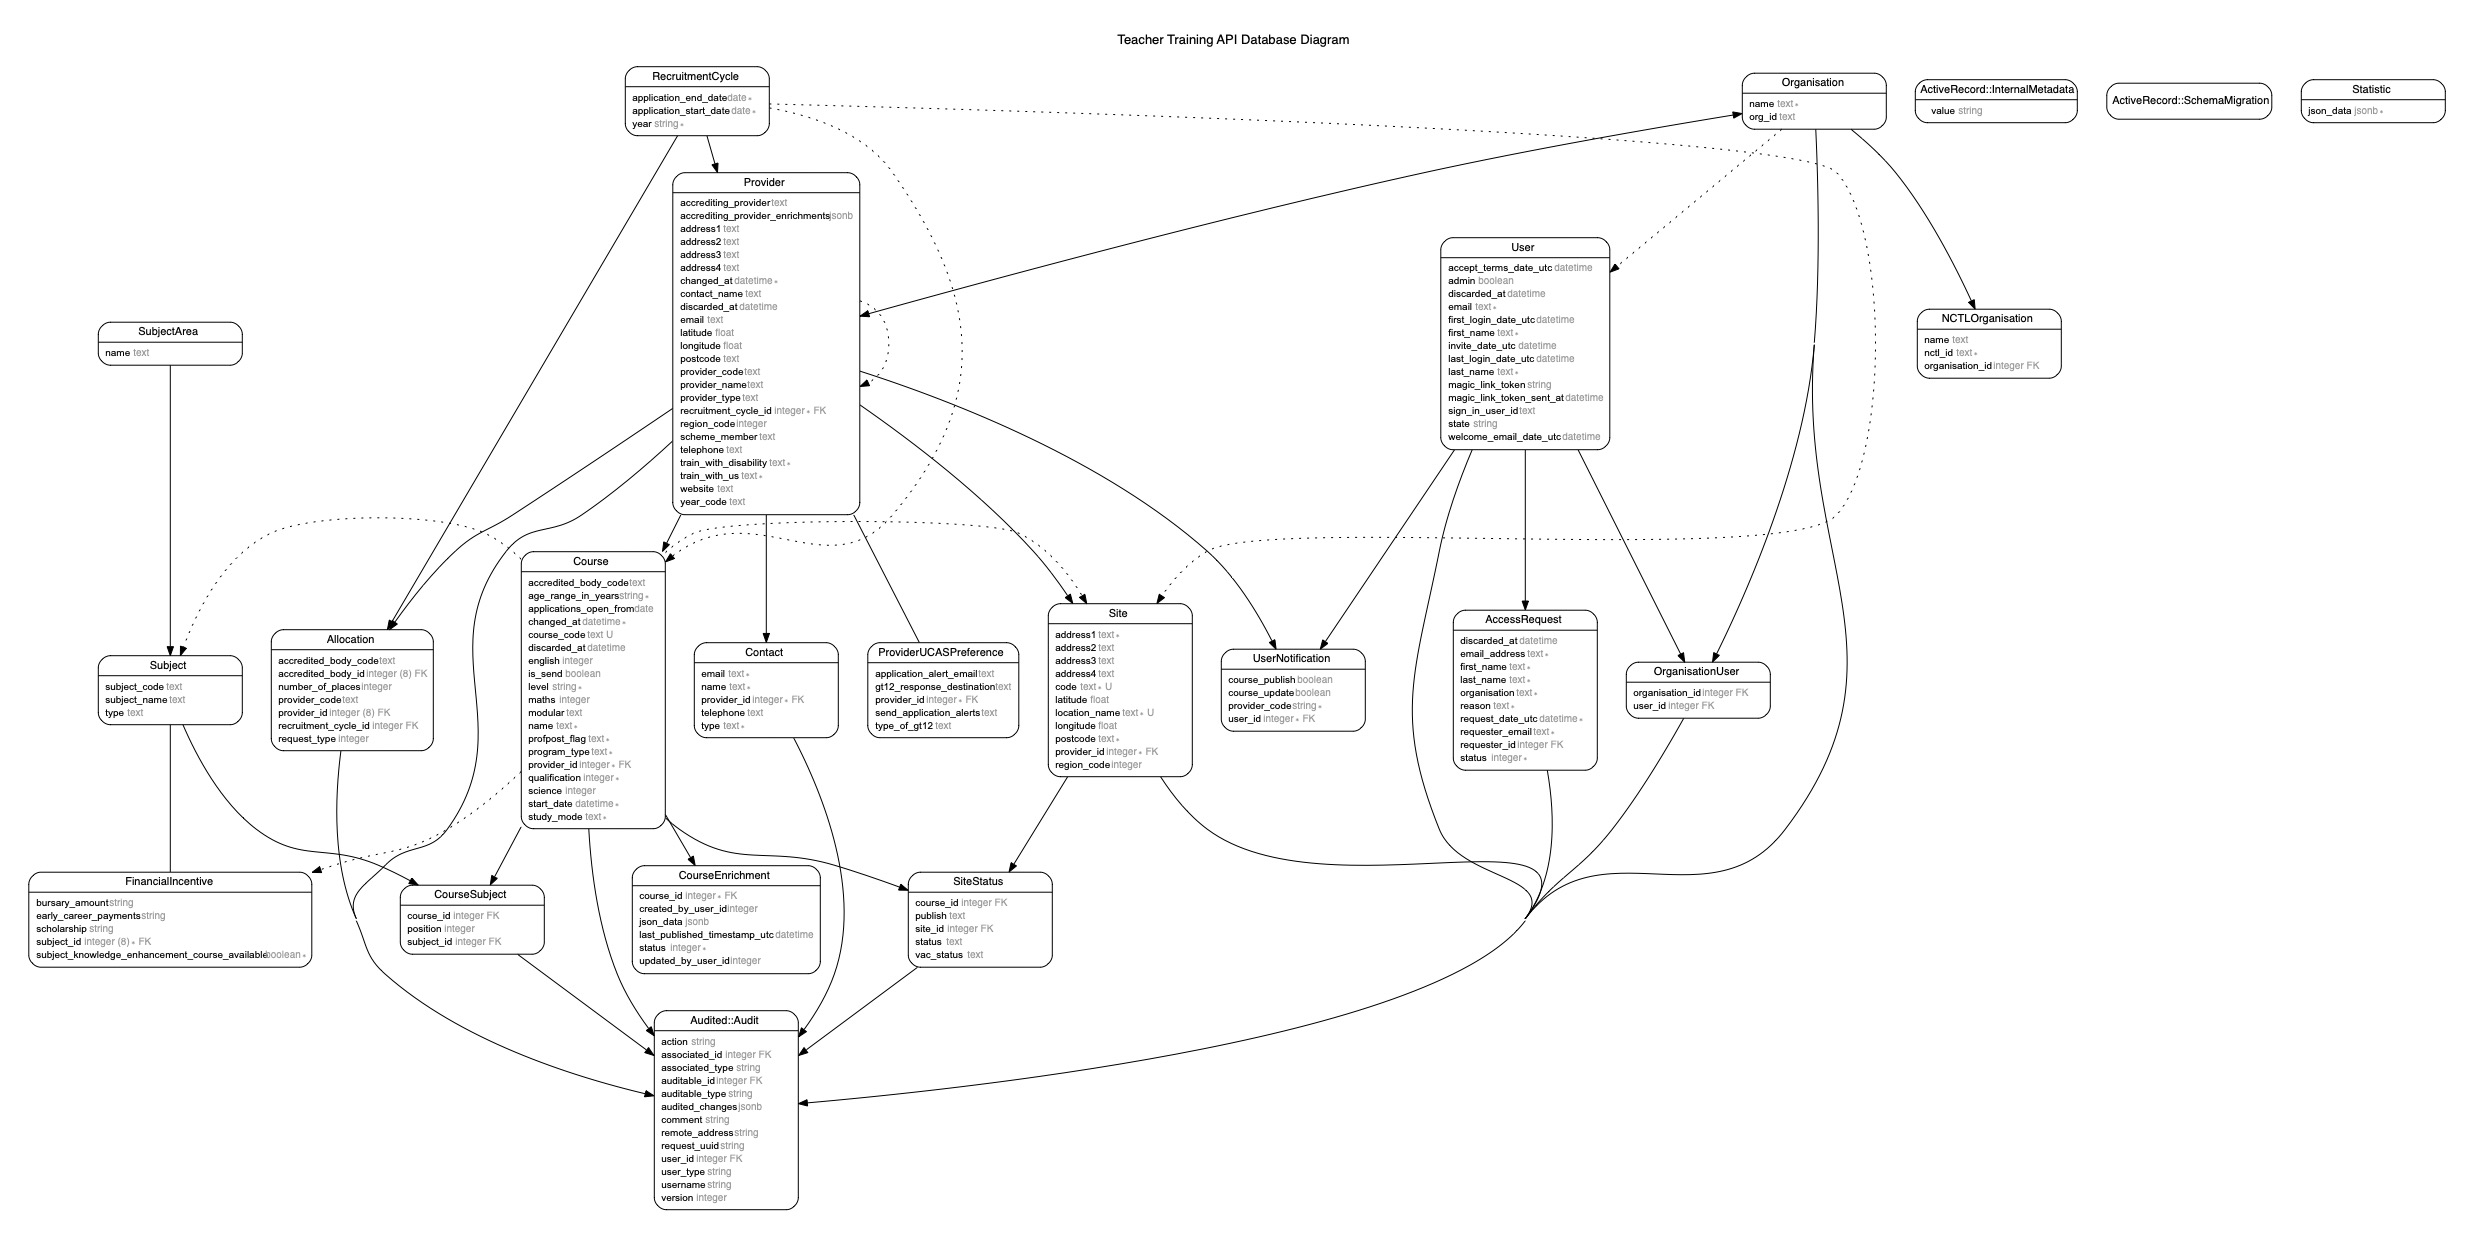
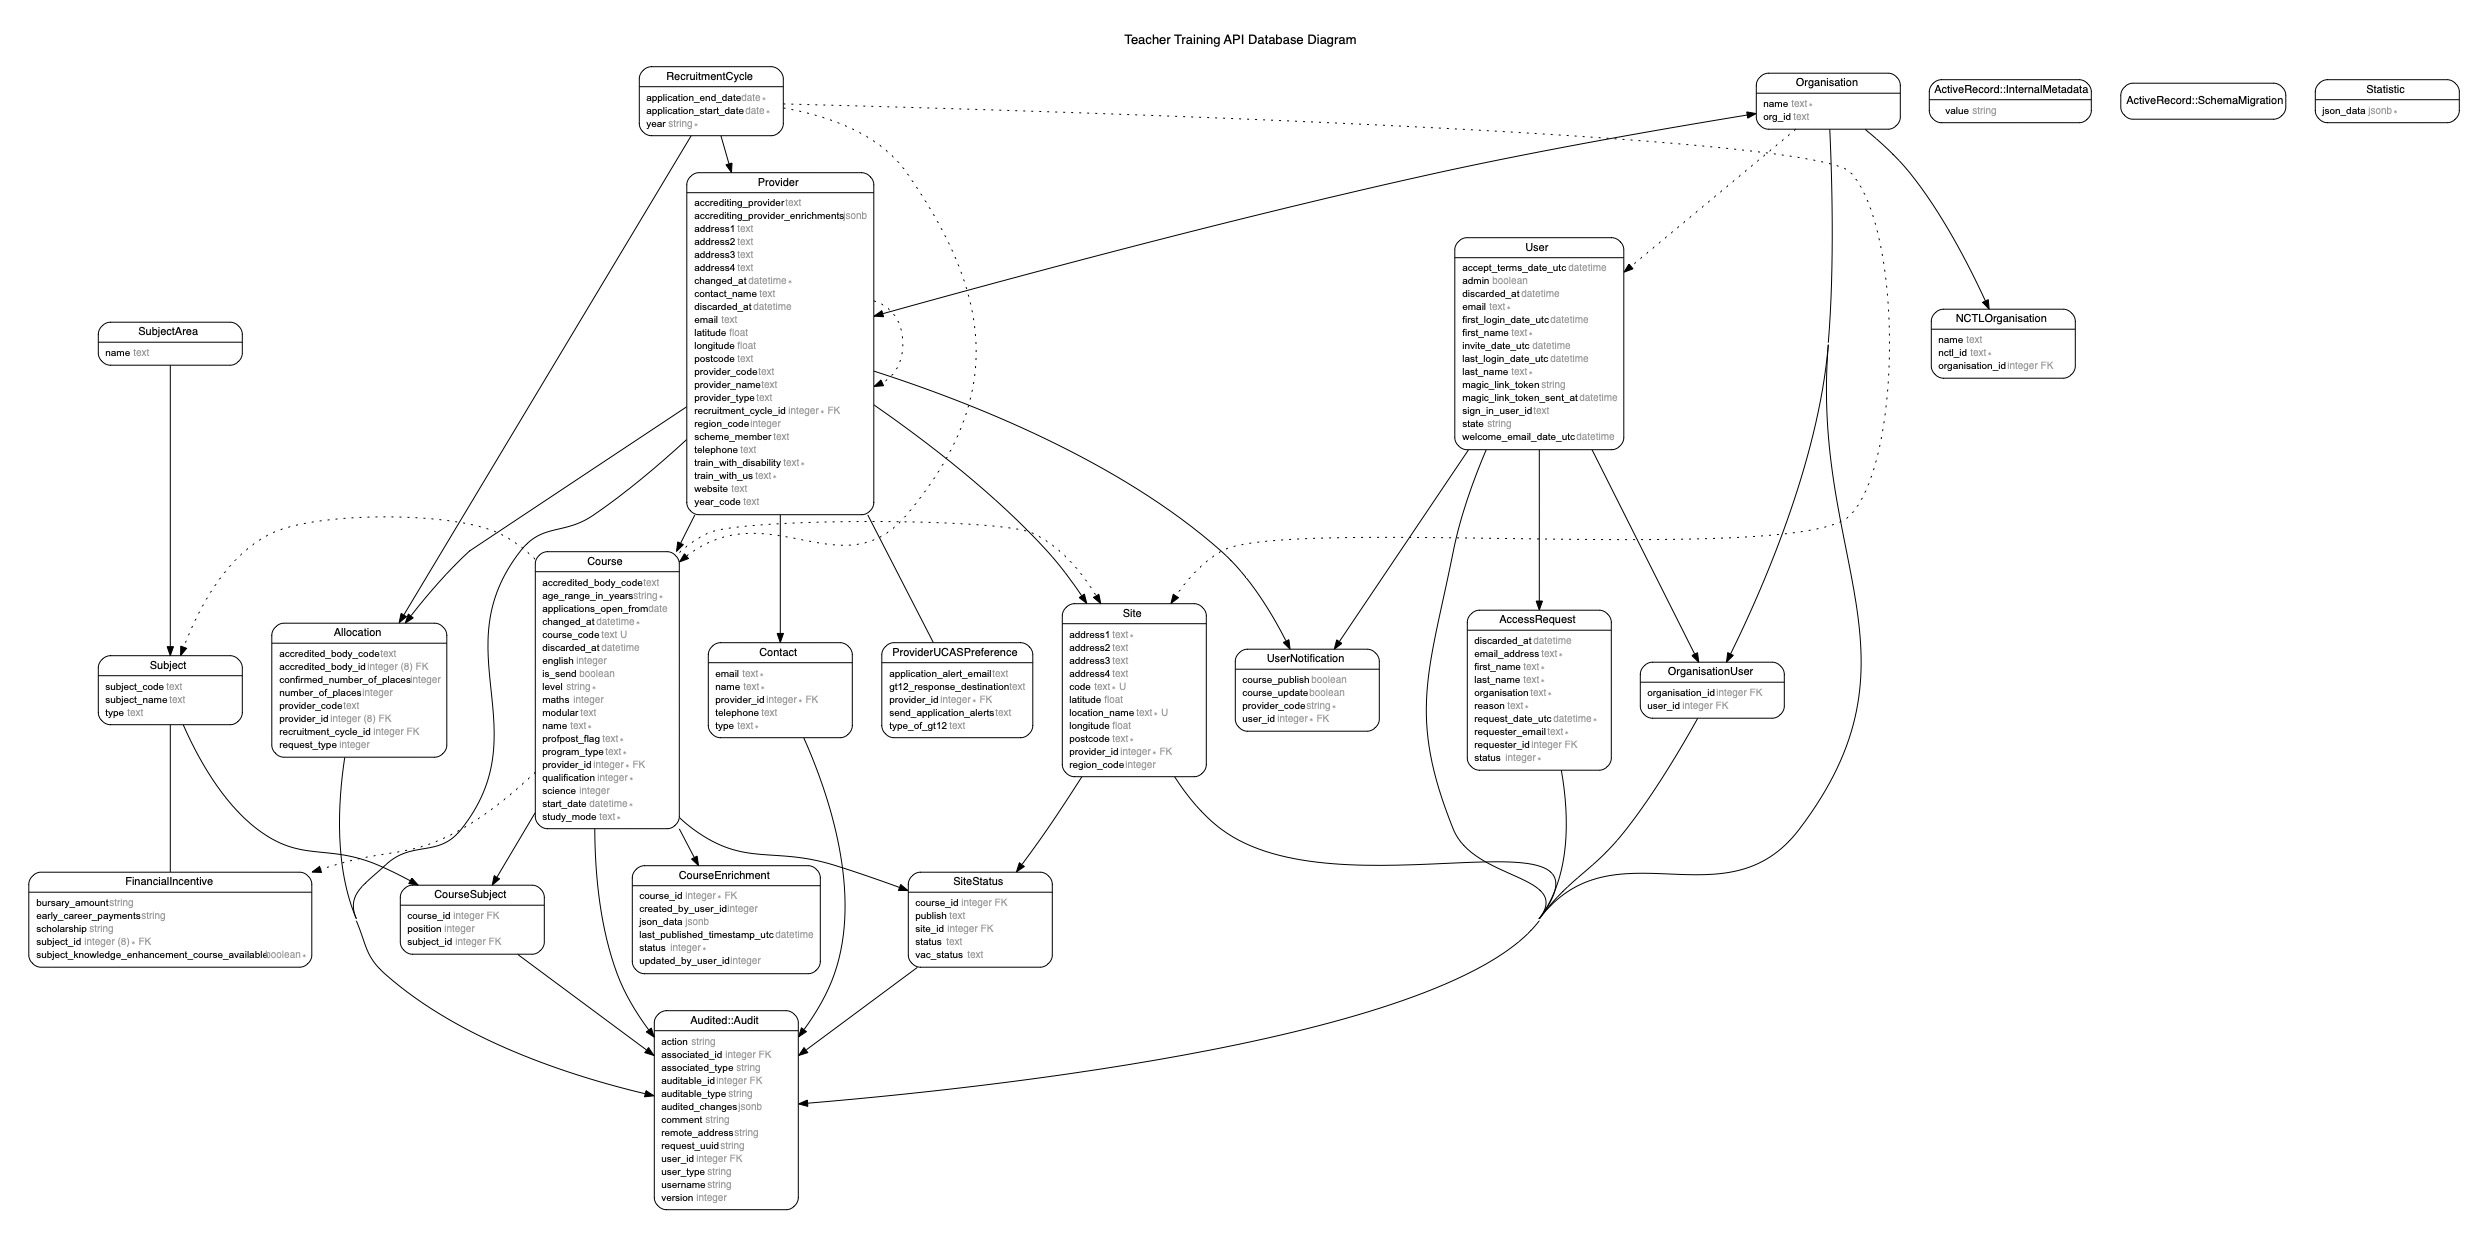
[3818] Placeholder for confirmed allocations
- Exposes confirmed_number_of_places as part of the allocation endpoints

diff --git a/spec/serializers/api/v2/serializable_allocation_spec.rb b/spec/serializers/api/v2/serializable_allocation_spec.rb
@@ -2,10 +2,10 @@ require "rails_helper"
 
 describe API::V2::SerializableAllocation do
   let(:jsonapi_renderer) { JSONAPI::Serializable::Renderer.new }
-  let(:allocation) { create(:allocation, number_of_places: 10) }
   let(:resource) { described_class.new(object: allocation) }
   let(:accredited_body) { allocation.accredited_body }
   let(:provider) { allocation.provider }
+  let(:allocation) { build(:allocation, number_of_places: 10) }
 
   subject do
     jsonapi_renderer.render(
@@ -35,6 +35,22 @@ describe API::V2::SerializableAllocation do
 
   it "has a number_of_places attribute" do
     expect(subject.dig(:data, :attributes, :number_of_places)).to eq(10)
+  end
+
+  it "has a confirmed_number_of_places attribute" do
+    expect(subject.dig(:data, :attributes, :confirmed_number_of_places)).to be_nil
+  end
+
+  context "when number of places is confirmed" do
+    let(:allocation) do
+      build(:allocation,
+            number_of_places: 10,
+            confirmed_number_of_places: 123)
+    end
+
+    it "confirmed_number_of_places returns correct value" do
+      expect(subject.dig(:data, :attributes, :confirmed_number_of_places)).to eql(123)
+    end
   end
 
   it "has a request_type attribute" do

diff --git a/spec/requests/api/v2/allocations_spec.rb b/spec/requests/api/v2/allocations_spec.rb
@@ -120,7 +120,11 @@ RSpec.describe "/api/v2/allocations/<id>", type: :request do
   end
 
   def given_an_allocation_has_been_created_by_the_accredited_body_for_the_training_provider
-    @allocation = create(:allocation, accredited_body_id: @accredited_body.id, provider_id: @training_provider.id, number_of_places: 10)
+    @allocation = create(:allocation,
+                         accredited_body_id: @accredited_body.id,
+                         provider_id: @training_provider.id,
+                         number_of_places: 10,
+                         confirmed_number_of_places: 11)
   end
 
   def when_i_make_a_get_request_to_the_endpoint
@@ -171,6 +175,7 @@ RSpec.describe "/api/v2/allocations/<id>", type: :request do
     parsed_response = JSON.parse(response.body)
     expect(parsed_response["data"]["type"]).to eq("allocations")
     expect(parsed_response["data"]["attributes"]["number_of_places"]).to eq(10)
+    expect(parsed_response["data"]["attributes"]["confirmed_number_of_places"]).to eq(11)
   end
 
   def when_i_get_the_allocations_index_endpoint

diff --git a/db/schema.rb b/db/schema.rb
@@ -10,7 +10,7 @@
 #
 # It's strongly recommended that you check this file into your version control system.
 
-ActiveRecord::Schema.define(version: 2020_06_19_100300) do
+ActiveRecord::Schema.define(version: 2020_08_19_084304) do
 
   # These are extensions that must be enabled in order to support this database
   enable_extension "pg_buffercache"
@@ -46,6 +46,7 @@ ActiveRecord::Schema.define(version: 2020_06_19_100300) do
     t.text "accredited_body_code"
     t.text "provider_code"
     t.integer "recruitment_cycle_id"
+    t.integer "confirmed_number_of_places"
     t.index ["accredited_body_id"], name: "index_allocation_on_accredited_body_id"
     t.index ["provider_id", "accredited_body_id", "provider_code", "accredited_body_code", "recruitment_cycle_id"], name: "index_allocations_on_uniqueness_of_codes_and_ids", unique: true
     t.index ["provider_id"], name: "index_allocation_on_provider_id"

diff --git a/app/serializers/api/v2/serializable_allocation.rb b/app/serializers/api/v2/serializable_allocation.rb
@@ -2,7 +2,8 @@ module API
   module V2
     class SerializableAllocation < JSONAPI::Serializable::Resource
       type "allocations"
-      attributes :number_of_places, :request_type
+
+      attributes :confirmed_number_of_places, :number_of_places, :request_type
 
       belongs_to :accredited_body
       belongs_to :provider

diff --git a/db/migrate/20200819084304_add_confirmed_number_of_places_to_allocations.rb b/db/migrate/20200819084304_add_confirmed_number_of_places_to_allocations.rb
@@ -1,0 +1,5 @@
+class AddConfirmedNumberOfPlacesToAllocations < ActiveRecord::Migration[6.0]
+  def change
+    add_column :allocation, :confirmed_number_of_places, :integer, null: true
+  end
+end
